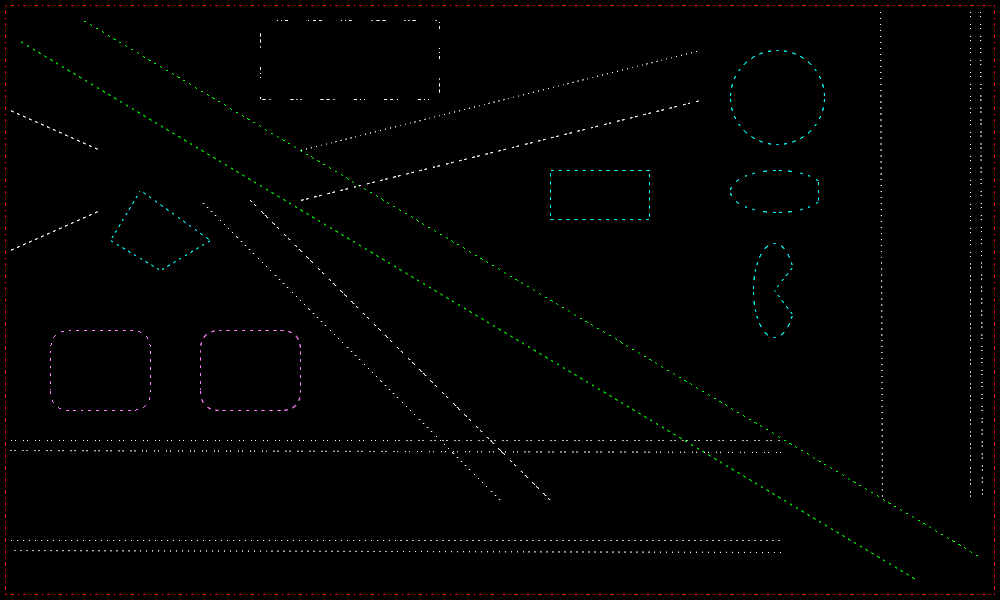
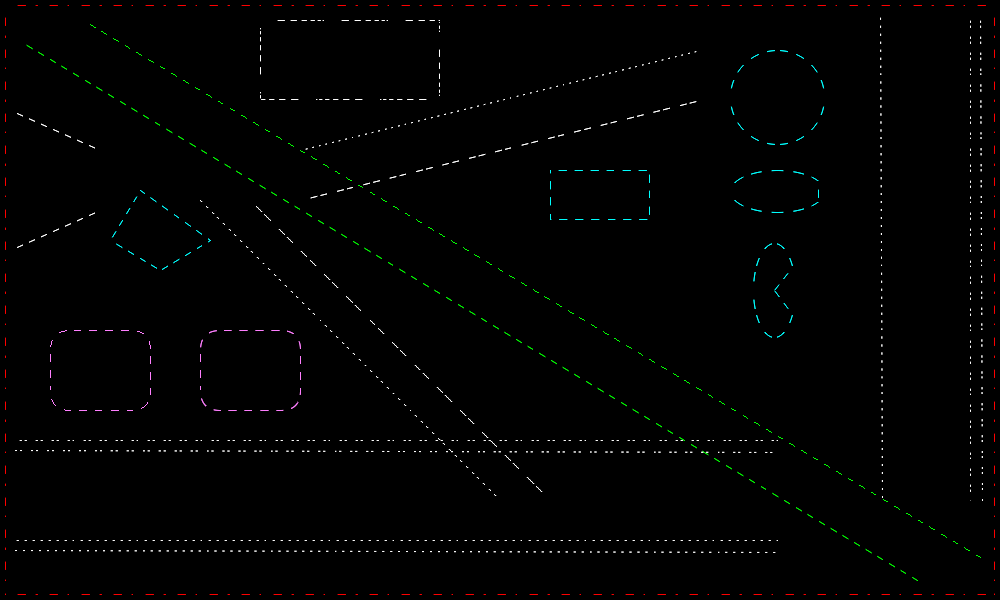
Improving patterned line

diff --git a/src/Pt-Gfx/Rasterizer2.cpp b/src/Pt-Gfx/Rasterizer2.cpp
@@ -219,116 +219,59 @@ void Rasterizer2::strokeText( const Point& to, const Pt::String& text )
 void Rasterizer2::updatePenPattern()
 {
     // Predefined patterns
-    static const Pt::uint8_t patternDot       [] = { 0, 1, 0, 0, 0, 0                                 };
-    static const Pt::uint8_t patternDoubleDot [] = { 0, 1, 0, 0, 0, 1, 0, 0, 0, 0, 0, 0               };
-    static const Pt::uint8_t patternDash      [] = { 0, 1, 1, 1, 0, 0, 0, 0,                          };
-    static const Pt::uint8_t patternDoubleDash[] = { 0, 1, 1, 1, 0, 0,  0, 1, 1, 1, 0, 0, 0, 0, 0, 0  };
-    static const Pt::uint8_t patternDotDash   [] = { 0, 1, 0, 0, 0, 0, 1, 1, 1, 0, 0, 0               };
-
-    Pt::uint8_t patternUserDefined[64]; // The user-defined pattern has 64 points
+    static const Pt::uint64_t patternDot        = 0xC0C0C0C0C0C0C0C0; // 1100000011000000110000001100000011000000110000001100000011000000
+    static const Pt::uint64_t patternDoubleDot  = 0xC600C600C600C600; // 1100011000000000110001100000000011000110000000001100011000000000
+    static const Pt::uint64_t patternDash       = 0xFF00FF00FF00FF00; // 1111111100000000111111110000000011111111000000001111111100000000
+    static const Pt::uint64_t patternDoubleDash = 0xFF0FF000FF0FF000; // 1111111100001111111100000000000011111111000011111111000000000000
+    static const Pt::uint64_t patternDotDash    = 0xC00FF000C00FF000; // 1100000000001111111100000000000011000000000011111111000000000000
 
     // Select the pattern
-    const Pt::uint8_t* patternSel;
-          Pt::uint8_t  patternLen;
+    Pt::uint64_t patternSel;
 
     switch(_pen.style()) {
         default:
-        case Pen::Dot:
-            patternSel =        patternDot;
-            patternLen = sizeof(patternDot);
-            break;
-
-        case Pen::DoubleDot:
-            patternSel =        patternDoubleDot;
-            patternLen = sizeof(patternDoubleDot);
-            break;
-
-        case Pen::Dash:
-            patternSel =        patternDash;
-            patternLen = sizeof(patternDash);
-            break;
-
-        case Pen::DoubleDash:
-            patternSel =        patternDoubleDash;
-            patternLen = sizeof(patternDoubleDash);
-            break;
-
-        case Pen::DotDash:
-            patternSel =        patternDotDash;
-            patternLen = sizeof(patternDotDash);
-            break;
-
-        case Pen::UserDefined: {
-            const Pt::uint64_t upat = _pen.userPattern();
-            for(Pt::int32_t i = 0; i < 64; ++i) {
-                if( upat & ((Pt::uint64_t) 1 << i) ) patternUserDefined[63 - i] = 1;
-                else                                 patternUserDefined[63 - i] = 0;
-            }
-            patternSel =        patternUserDefined;
-            patternLen = sizeof(patternUserDefined);
-            break;
-        }
+        case Pen::Dot         : patternSel = patternDot;         break;
+        case Pen::DoubleDot   : patternSel = patternDoubleDot;   break;
+        case Pen::Dash        : patternSel = patternDash;        break;
+        case Pen::DoubleDash  : patternSel = patternDoubleDash;  break;
+        case Pen::DotDash     : patternSel = patternDotDash;     break;
+        case Pen::UserDefined : patternSel = _pen.userPattern(); break;
     }
 
     // Counter for generating the pattern
     size_t gctr = 0;
 
     // Generate the pattern
-    Pt::uint8_t previous = 0;
-    bool        tooBig   = false;
-    for(Pt::int8_t i = 0; i < patternLen; ++i) {
+    bool previous = 0;
+    for(Pt::int8_t p = 0; p < 64; ++p) { // The pattern has 64 points
         // Get the pattern cell value
-        const Pt::uint8_t current = patternSel[i];
-        const Pt::uint8_t max     = PATTERN_BUFFER_SCALE_FACTOR;
+        const bool current = patternSel & ((Pt::uint64_t) 1 << p);
         // Pattern cell change from 0 to 0
         if(!previous && !current) {
-            for(Pt::uint8_t i = 1; i <= max; ++i) {
-                if(gctr >= sizeof(_patternBuffer)) {
-                    tooBig = true;
-                    break;
-                }
+            for(Pt::uint8_t i = 1; i <= PATTERN_BUFFER_SCALE_FACTOR; ++i) {
                 _patternBuffer[gctr++] = 0;
             }
         }
         // Pattern cell change from 1 to 1
         else if(previous && current) {
-            for(Pt::uint8_t i = 1; i <= max; ++i) {
-                if(gctr >= sizeof(_patternBuffer)) {
-                    tooBig = true;
-                    break;
-                }
+            for(Pt::uint8_t i = 1; i <= PATTERN_BUFFER_SCALE_FACTOR; ++i) {
                 _patternBuffer[gctr++] = 255;
             }
         }
         // Pattern cell change from 0 to 1
         else if(!previous && current) {
-            for(Pt::int32_t i = 1; i <= max; ++i) {
-                if(gctr >= sizeof(_patternBuffer)) {
-                    tooBig = true;
-                    break;
-                }
-                _patternBuffer[gctr++] = i * 255 / max;
+            for(Pt::int32_t i = 1; i <= PATTERN_BUFFER_SCALE_FACTOR; ++i) {
+                _patternBuffer[gctr++] = i * 255 / PATTERN_BUFFER_SCALE_FACTOR;
             }
         }
         // Pattern cell change from 1 to 0
         else if(previous && !current) {
-            for(Pt::int32_t i = 1; i <= max; ++i) {
-                if(gctr >= sizeof(_patternBuffer)) {
-                    tooBig = true;
-                    break;
-                }
-                _patternBuffer[gctr++] = 255 - i * 255 / max;
+            for(Pt::int32_t i = 1; i <= PATTERN_BUFFER_SCALE_FACTOR; ++i) {
+                _patternBuffer[gctr++] = 255 - i * 255 / PATTERN_BUFFER_SCALE_FACTOR;
             }
         }
         // Copy the pattern cell value
         previous = current;
-    }
-
-    // Check if the size of the generated pattern is too big to be stored in the pattern buffer
-    if(tooBig) {
-        _patternBuffer[0] = 0;
-        _fpatternMaxCtr   = FIXED_POINT_FROM_INT(1);
-        return;
     }
 
     // Transfom the pattern - without anti-aliasing

diff --git a/src/Pt-Gfx/Rasterizer2.h b/src/Pt-Gfx/Rasterizer2.h
@@ -66,8 +66,8 @@
 #define MAXIMUM_POINT Painter::MaximumPointCoordinate
 
 // Scaling factor and starting value for the pattern buffer
-#define PATTERN_BUFFER_SCALE_FACTOR  2
-#define PATTERN_BUFFER_COUNTER_START FIXED_POINT_FROM_INT(PATTERN_BUFFER_SCALE_FACTOR / 2)
+#define PATTERN_BUFFER_SCALE_FACTOR  4
+#define PATTERN_BUFFER_COUNTER_START 0
 
 // Just for easy and faster debugging ;)
 #include <stdio.h>
@@ -295,7 +295,7 @@ class Rasterizer2
         Pen              _pen;
         Image            _penBuffer;
         ConstPixel       _penPixel;
-        Pt::uint8_t      _patternBuffer[64 * PATTERN_BUFFER_SCALE_FACTOR]; // The user-defined pattern has 64 points
+        Pt::uint8_t      _patternBuffer[64 * PATTERN_BUFFER_SCALE_FACTOR]; // The pattern has 64 points
         Pt::int32_t      _fpatternMaxCtr;                                  // In fixed-point number
 
         Brush            _brush;

diff --git a/src/Pt-Gfx/tests/ImagePainterTest2_Draw_Outline.cpp b/src/Pt-Gfx/tests/ImagePainterTest2_Draw_Outline.cpp
@@ -133,7 +133,7 @@ static void testDrawPatternedLine(const char* title, Image& image, Painter& pain
     if(ip2) ip2->drawArc( PointF (730, 170), SizeF(95, 43), 30, 330, ArcMode::Chord );
     if(ip2) ip2->drawArc( PointF (753, 243), SizeF(43, 95), 30, 330, ArcMode::Pie );
 
-    painter.setPen( Pen( Color::fromRgb8(255, 255, 255, 175), 1, 0x000044700000871C ) );
+    painter.setPen( Pen( Color::fromRgb8(255, 255, 255, 175), 1, 0xCE3C3E0FC0FE0000 ) ); // 1100111000111100001111100000111111000000111111100000000000000000
     painter.drawRect( RectF(PointF(260, 20), SizeF(180, 80)) );
 
     if(ip2) {

diff --git a/src/Pt-Gfx/Rasterizer2_PatternedLine.cpp b/src/Pt-Gfx/Rasterizer2_PatternedLine.cpp
@@ -42,8 +42,8 @@ namespace Gfx {
 void Rasterizer2::rasterOnePixelPatternedLine(Pt::int32_t x1, Pt::int32_t y1, Pt::int32_t x2, Pt::int32_t y2, const Color& color, Pt::int32_t& fpiCtrInOut, DrawLineMask* maskInOut)
 {
     // Check the size of the line
-    const Pt::int32_t sizeX = abs(x2 - x1) + 1;
-    const Pt::int32_t sizeY = abs(y2 - y1) + 1;
+    const Pt::int32_t sizeX = abs(x2 - x1);
+    const Pt::int32_t sizeY = abs(y2 - y1);
     const Pt::int32_t sizeS = sizeX + sizeY;
     const Pt::int32_t sizeL = Gfx::Math::fastSqrt(sizeX * sizeX + sizeY * sizeY);
 

diff --git a/src/Pt-Gfx/tests/ImagePainterTest2.cpp b/src/Pt-Gfx/tests/ImagePainterTest2.cpp
@@ -62,7 +62,7 @@ using namespace Pt::Gfx;
 #define TEST_SOURCEOVER                         0
 
 #define TEST_DRAW_SOLID_LINE_AND_TEXT           0 // (including bezier)
-#define TEST_DRAW_PATTERNED_LINE                0 // (including bezier)
+#define TEST_DRAW_PATTERNED_LINE                1 // (including bezier)
 #define TEST_DRAW_SOLID_THICK_LINE              1 // (including bezier)
 #define TEST_DRAW_PATTERNED_THICK_LINE          0 // (including bezier)
 
